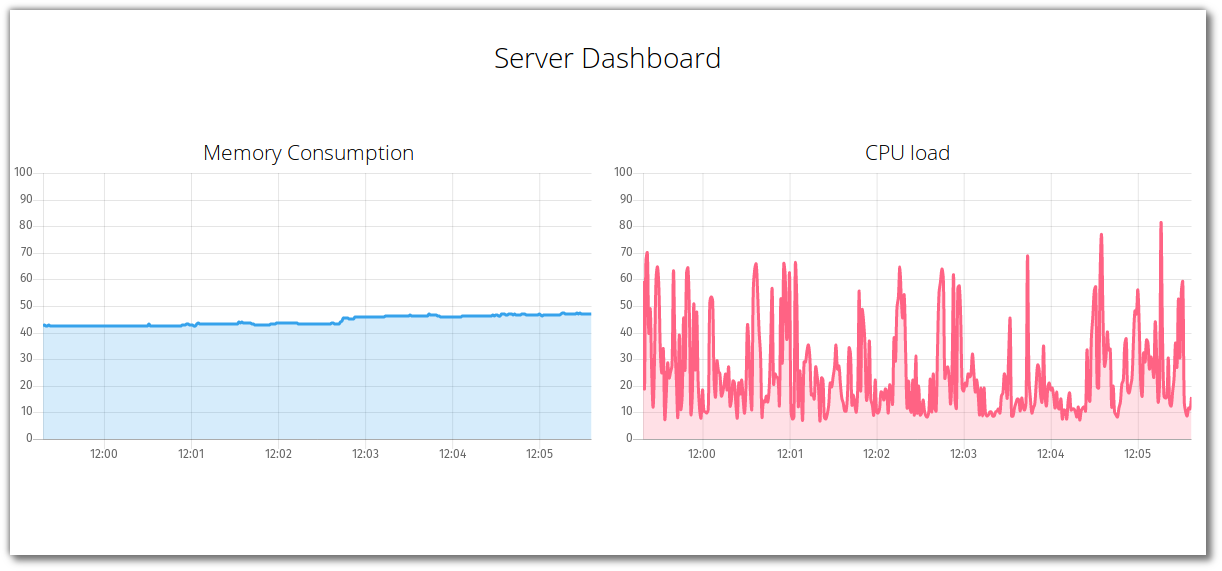
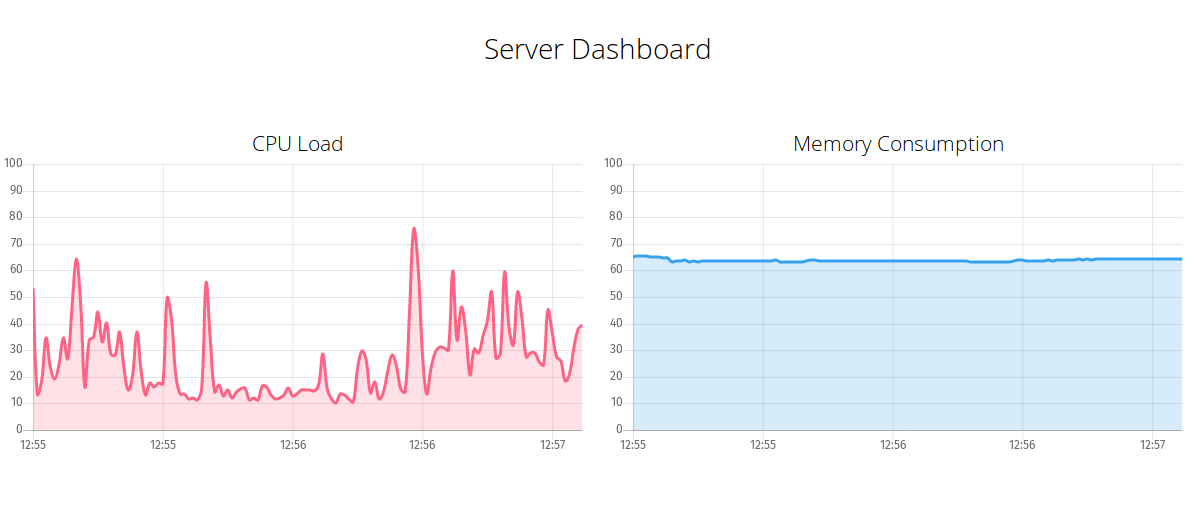
New screenshot, added license, cleaned custom parsing fields func in memory.go

diff --git a/index.html b/index.html
@@ -11,12 +11,12 @@
     <h1 class="text-centered title">Server Dashboard</h1>
     <div class="chart-container">
         <div class="chart">
-            <h2 class="text-centered"> Memory Consumption </h2>
-            <canvas id="memory-chart"></canvas>
+            <h2 class="text-centered"> CPU Load</h2>
+            <canvas id="cpu-chart"></canvas>
         </div>
         <div class="chart">
-            <h2 class="text-centered"> CPU load</h2>
-            <canvas id="cpu-chart"></canvas>
+            <h2 class="text-centered"> Memory Consumption </h2>
+            <canvas id="memory-chart"></canvas>
         </div>
     </div>
 </body>

diff --git a/public/js/chart.js b/public/js/chart.js
@@ -64,7 +64,7 @@ var cpuChart = new Chart(cpu, {
     type: 'line',
     data: {
         datasets: [{
-            label: 'Cpu consumption',
+            label: 'Cpu Load',
             backgroundColor: 'rgba(255, 99, 132, 0.2)',
             borderColor: 'rgb(255, 99, 132)',
             pointBorderWidth: 0,

diff --git a/main.go b/main.go
@@ -16,7 +16,6 @@ func main() {
 	fmt.Println("Starting server: http://127.0.0.1:8080")
 
 	http.HandleFunc("/", displayDashboard)
-	http.Handle("/echo", websocket.Handler(echo))
 	http.Handle("/status", websocket.Handler(status))
 	http.Handle("/public/", http.StripPrefix("/public/", http.FileServer(http.Dir("./public"))))
 
@@ -25,58 +24,44 @@ func main() {
 	}
 }
 
-func echo(ws *websocket.Conn) {
-	var err error
-	for {
-		var reply string
-		if err = websocket.Message.Receive(ws, &reply); err != nil {
-			fmt.Println("Can't receive message")
-			break
-		}
-
-		fmt.Println("Received from client:", reply)
-		msg := reply
-		fmt.Println("Sending to client:" + reply)
-		if err = websocket.Message.Send(ws, msg); err != nil {
-			fmt.Println("Can't reply to client")
-			break
-		}
-
-	}
-}
-
 type displayData struct {
 	Memory stats.ChartMemory
 	CPU    stats.ChartCPU
 }
 
+// status is streaming data to client/frontend via websockets
 func status(ws *websocket.Conn) {
 	for {
+		// get data about memory consumption
 		memory, err := stats.UsedMemory()
 		if err != nil {
 			fmt.Println(err)
 			break
 		}
+		// get cpu load data
 		cpu1, err := stats.UsedCPU()
 		if err != nil {
 			fmt.Println(err)
 			break
 		}
+		// waiting for one second so we can calculate the
+		// the cpu load
 		time.Sleep(time.Second * 1)
-
+		// get cpu load data after one second
 		cpu2, err := stats.UsedCPU()
 		if err != nil {
 			fmt.Println(err)
 			break
 		}
+		// calculate average cpu load
 		idleTicks := float32(cpu2.Idle - cpu1.Idle)
 		totalTicks := float32(cpu2.Total - cpu1.Total)
 		averageLoad := fmt.Sprintf("%.1f", (totalTicks-idleTicks)*100/totalTicks)
 		cpu := stats.ChartCPU{AverageLoad: averageLoad, Time: cpu2.Time}
 
-		// load data and send it via websockets
+		// gather memory and cpu data together, and send it
+		// as JSON to client via websocket
 		data := displayData{Memory: memory, CPU: cpu}
-
 		err = websocket.JSON.Send(ws, data)
 		if err != nil {
 			fmt.Println("Stats: Can't push to client:", err)
@@ -85,9 +70,11 @@ func status(ws *websocket.Conn) {
 	}
 }
 
+var t = template.Must(template.ParseFiles("./index.html"))
+
+// displayDashboard is displaying index page of server dashboard
 func displayDashboard(w http.ResponseWriter, r *http.Request) {
-	t := template.Must(template.ParseFiles("./index.html"))
-	err := t.Execute(w, t)
+	err := t.Execute(w, nil)
 	if err != nil {
 		fmt.Println(err)
 		http.Error(w, "Internal server error", http.StatusInternalServerError)

diff --git a/stats/cpu.go b/stats/cpu.go
@@ -8,7 +8,7 @@ import (
 	"time"
 )
 
-// CPU is used for holding cpu ticks data
+// CPU is used for parsing cpu ticks data
 type CPU struct {
 	Idle  uint64
 	Total uint64
@@ -22,8 +22,10 @@ type ChartCPU struct {
 	Time        int64
 }
 
-// UsedCPU returns average cpu load data, for displaying
-// in chart
+// UsedCPU returns total number of cpu ticks and number of idle ticks
+// To get an average cpu load we have to call UsedCPU with time difference
+// of at least one second. By calculating the difference between cpu ticks
+// we get the average cpu load.
 func UsedCPU() (CPU, error) {
 	chartData := CPU{}
 	file, err := os.Open("/proc/stat")
@@ -33,7 +35,8 @@ func UsedCPU() (CPU, error) {
 	defer file.Close()
 	var total uint64
 	var idle uint64
-
+	// for each line of file we check if cpu exists in first field of line
+	// if it does we gather the total number of ticks and number of idle ticks
 	scanner := bufio.NewScanner(file)
 	for scanner.Scan() {
 		line := scanner.Text()

diff --git a/stats/memory.go b/stats/memory.go
@@ -51,30 +51,21 @@ func getMemoryInfo() (Memory, error) {
 	for scanner.Scan() {
 		line := scanner.Text()
 		if strings.Contains(line, "MemTotal") {
-			mem.Total, err = parseMemNumber(line)
+			// parse fields in line and pick number only
+			total := strings.Fields(line)[1]
+			mem.Total, err = strconv.Atoi(total)
 			if err != nil {
 				return mem, err
 			}
 		} else if strings.Contains(line, "MemAvailable") {
-			mem.Available, err = parseMemNumber(line)
+			avail := strings.Fields(line)[1]
+			mem.Available, err = strconv.Atoi(avail)
 			if err != nil {
 				return mem, err
 			}
 		}
 	}
 	mem.Taken = mem.Total - mem.Available
-
 	mem.Time = time.Now().Unix() * 1000
-
 	return mem, nil
-}
-
-func parseMemNumber(line string) (int, error) {
-	str := strings.TrimSpace(strings.Split(line, ":")[1])
-	num := strings.Split(str, " ")[0]
-	number, err := strconv.Atoi(num)
-	if err != nil {
-		return -1, err
-	}
-	return number, nil
 }

diff --git a/README.md b/README.md
@@ -3,4 +3,4 @@
 ![Dashboard for displaying load on our server](screenshot.png)
 
 
-Server Dashboard that displays real server data parsed from system files. Backend gathers data and displays it on frontend via websockets.
+Server Dashboard displays real server data parsed from system files. Backend gathers CPU load and Memory Consumption data and displays it on frontend via websockets.
